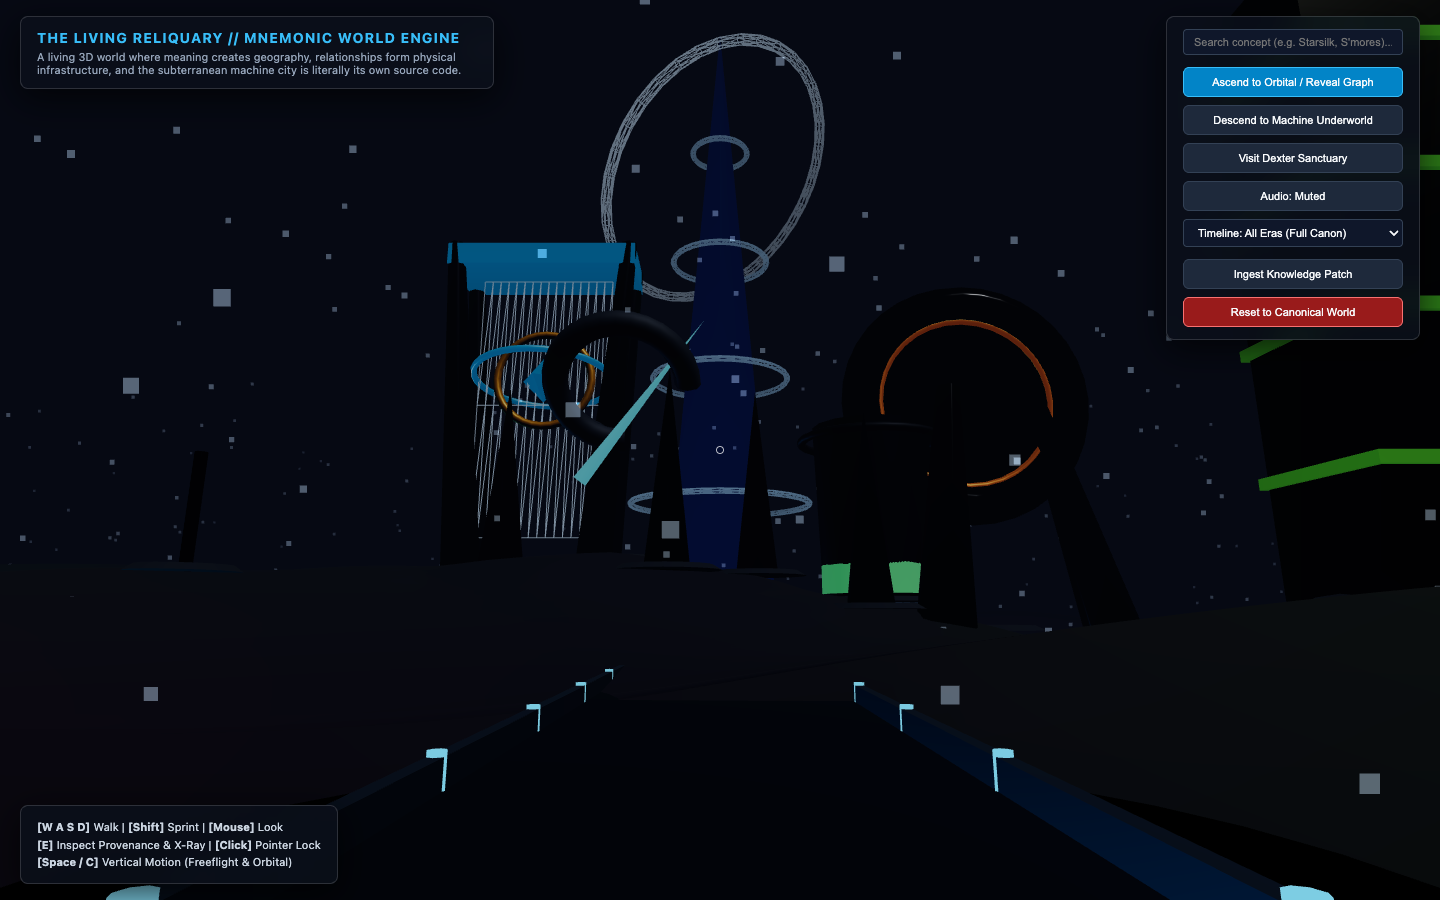
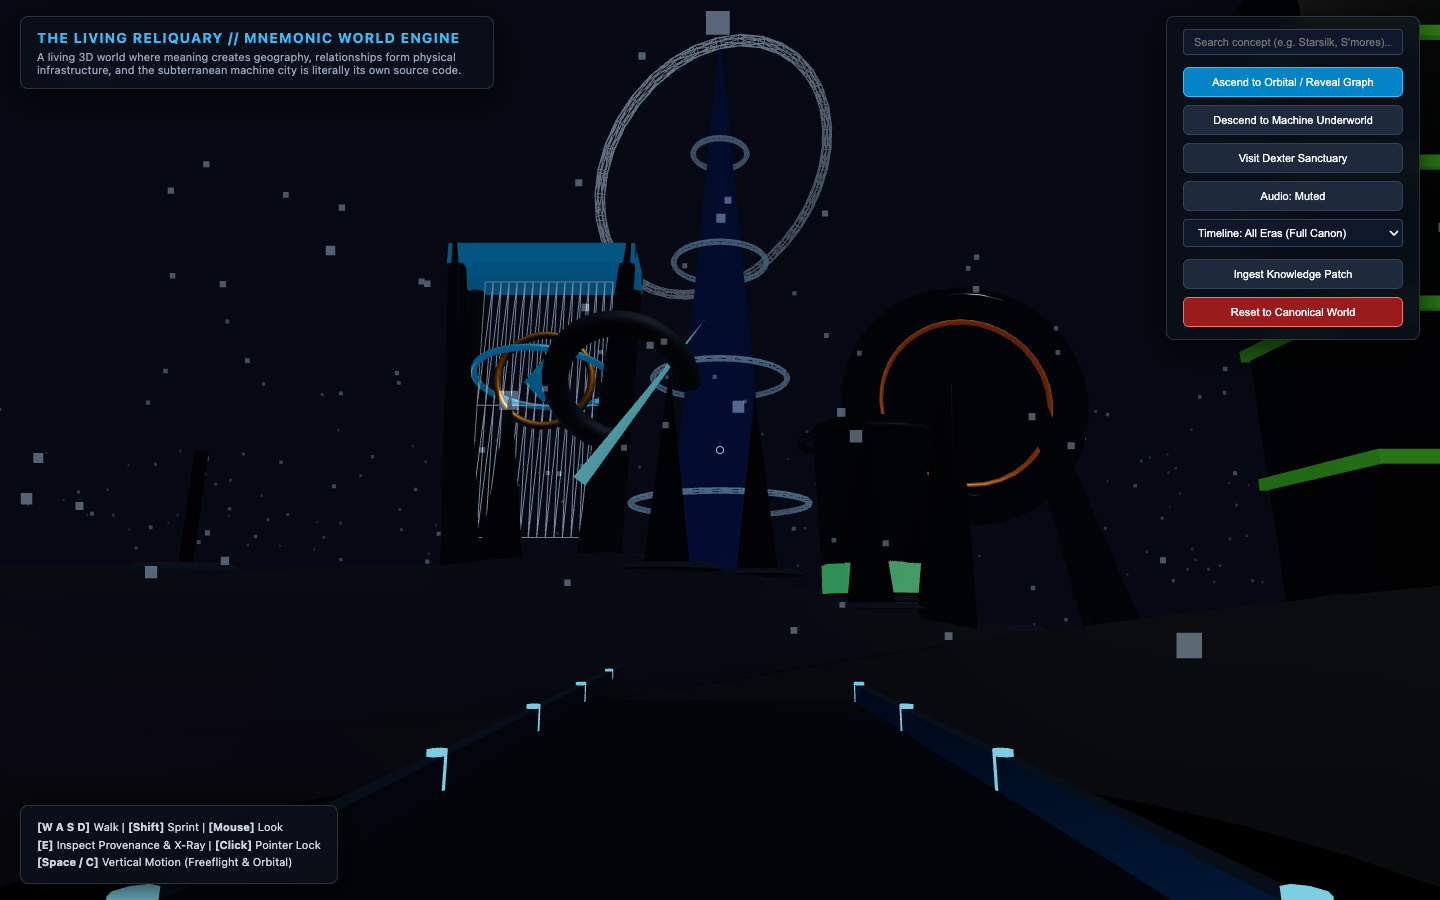
refine(loop-10): directors pass with dynamic celestial ring kinematics and descent aperture energy rotation

diff --git a/src/world/Terrain.ts b/src/world/Terrain.ts
@@ -232,6 +232,7 @@ export class Terrain {
     celestialRing.rotation.x = Math.PI / 3;
     celestialRing.rotation.y = Math.PI / 5;
     celestialRing.position.set(0, 80, -105);
+    celestialRing.name = 'celestial_orbital_ring';
     this.group.add(celestialRing);
 
     // 3. The Grand Descent Shaft Aperture (Colossal chasm ring at (0, 0) descending to Machine Layer)
@@ -245,6 +246,7 @@ export class Terrain {
     const collarMat = new THREE.MeshBasicMaterial({ color: 0x10b981, wireframe: true, transparent: true, opacity: 0.5 });
     const collar = new THREE.Mesh(new THREE.CylinderGeometry(11.8, 11.8, 4, 24, 1, true), collarMat);
     collar.position.set(0, 0, 0);
+    collar.name = 'descent_energy_collar';
     this.group.add(collar);
 
     // Spiral descent staircase stepping down into the machine city

diff --git a/src/world/MnemonicEngine.ts b/src/world/MnemonicEngine.ts
@@ -323,6 +323,18 @@ export class MnemonicEngine {
         const gyro = landmark.getObjectByName('gyro_ring_1');
         if (gyro) gyro.rotation.x = time * 1.5;
       }
+
+      // Animate world megastructures
+      const celestialRing = this.terrain.group.getObjectByName('celestial_orbital_ring');
+      if (celestialRing) {
+        celestialRing.rotation.z = time * 0.25;
+        celestialRing.rotation.y = time * 0.15;
+      }
+
+      const descentCollar = this.terrain.group.getObjectByName('descent_energy_collar');
+      if (descentCollar) {
+        descentCollar.rotation.y = -time * 0.4;
+      }
     }
 
     // Diegetic Proximity Zone Triggers:
